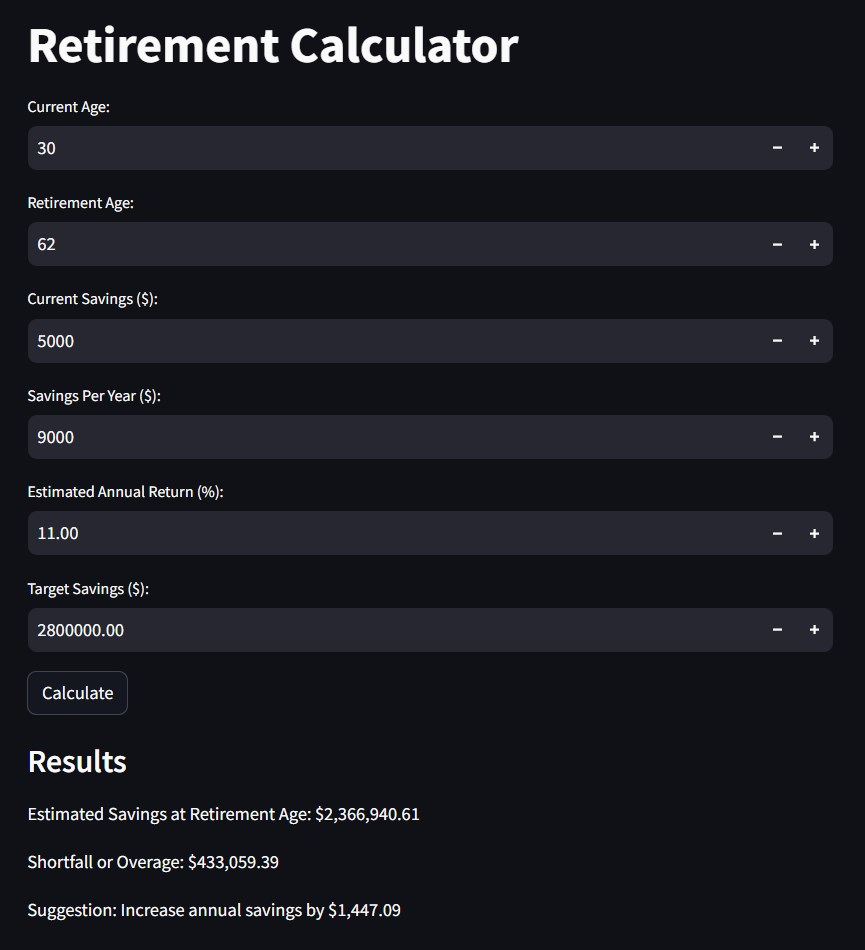
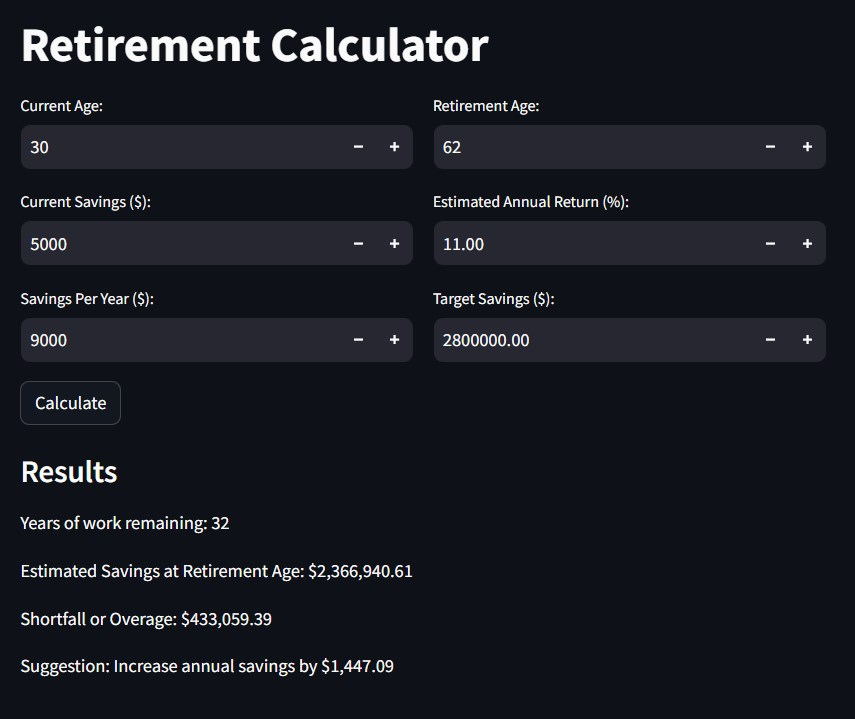
added columns and new screenshot

diff --git a/savingscalculator_streamlit/streamlit_app.py b/savingscalculator_streamlit/streamlit_app.py
@@ -18,12 +18,17 @@ if 'target_savings' not in st.session_state:
 # Streamlit UI
 st.title("Retirement Calculator")
 
-st.session_state['current_age'] = st.number_input("Current Age:", min_value=1, max_value=90, value=st.session_state['current_age'])
-st.session_state['retirement_age'] = st.number_input("Retirement Age:", min_value=st.session_state['current_age'], max_value=100, value=st.session_state['retirement_age'])
-st.session_state['current_savings'] = st.number_input("Current Savings ($):", min_value=0, value=st.session_state['current_savings'], step=100)
-st.session_state['annual_savings'] = st.number_input("Savings Per Year ($):", min_value=0, value=st.session_state['annual_savings'], step=1000)
-st.session_state['annual_return'] = st.number_input("Estimated Annual Return (%):", min_value=0.0, max_value=100.0, value=st.session_state['annual_return'], step=0.1)
-st.session_state['target_savings'] = st.number_input("Target Savings ($):", min_value=0.0, value=st.session_state['target_savings'], step=10000.0)
+col1, col2 = st.columns(2)
+
+with col1:
+    st.session_state['current_age'] = st.number_input("Current Age:", min_value=1, max_value=90, value=st.session_state['current_age'])
+    st.session_state['current_savings'] = st.number_input("Current Savings ($):", min_value=0, value=st.session_state['current_savings'], step=100)
+    st.session_state['annual_savings'] = st.number_input("Savings Per Year ($):", min_value=0, value=st.session_state['annual_savings'], step=1000)
+
+with col2:
+    st.session_state['retirement_age'] = st.number_input("Retirement Age:", min_value=st.session_state['current_age'], max_value=100, value=st.session_state['retirement_age'])
+    st.session_state['annual_return'] = st.number_input("Estimated Annual Return (%):", min_value=0.0, max_value=100.0, value=st.session_state['annual_return'], step=0.1)
+    st.session_state['target_savings'] = st.number_input("Target Savings ($):", min_value=0.0, value=st.session_state['target_savings'], step=10000.0)
 
 if st.button("Calculate"):
     estimated_savings = calculate_savings(
@@ -41,16 +46,7 @@ if st.button("Calculate"):
     )
 
     st.subheader("Results")
+    st.write(f"Years of work remaining: {st.session_state['retirement_age']-st.session_state['current_age']}")
     st.write(f"Estimated Savings at Retirement Age: ${estimated_savings:,.2f}")
     st.write(f"Shortfall or Overage: ${shortfall:,.2f}")
     st.write(f"Suggestion: {suggestion}")
-
-    # Progress calculation
-    expected_savings_by_now = calculate_savings(
-        st.session_state['current_age'] - 1,
-        st.session_state['current_age'],
-        0,
-        st.session_state['annual_savings'],
-        st.session_state['annual_return']
-    )
-    # st.write(f"Progress towards target: {'ahead' if st.session_state['current_savings'] >= expected_savings_by_now else 'behind'} schedule")
